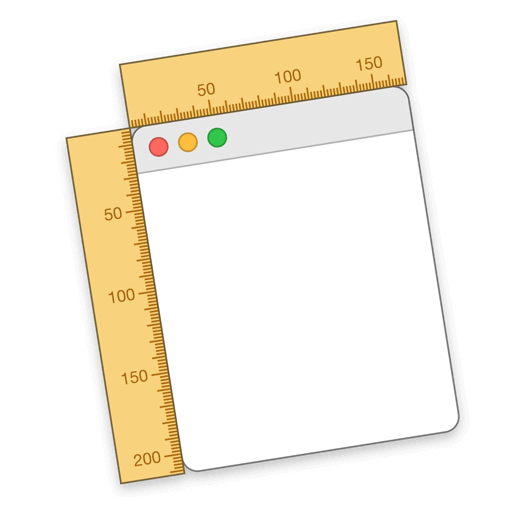
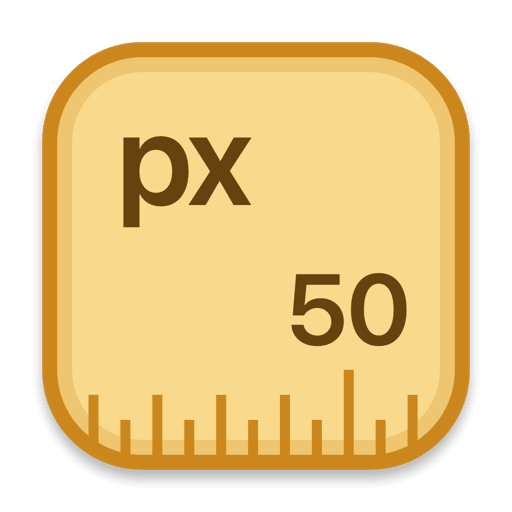
Update Free Ruler page copy and styling
Revise the Free Ruler landing page: remove the "2.0" suffix, clarify macOS requirement (Sonoma or later), expand and reword the features list (add keyboard shortcuts, show/hide/reopen, drag-to-resize, multiple languages), simplify feedback/contributing links, and note that GitHub downloads are signed/notarized. Adjust UI styling (larger border-radius and stronger box-shadow) and update the page screenshot (freeruler.png).

diff --git a/src/routes/freeruler/+page.svelte b/src/routes/freeruler/+page.svelte
@@ -13,18 +13,21 @@
 
   <article>
     <header>
-      <h1>Free Ruler 2.0</h1>
+      <h1>Free Ruler</h1>
       <p>A ruler application for macOS</p>
     </header>
     <h3>Features</h3>
     <ul>
       <li>Horizontal and vertical rulers.</li>
-      <li>Measure in pixels, inches, or millimeters.</li>
+      <li>Measure in pixels, millimeters, or inches (press U to cycle).</li>
       <li>Float rulers above other applications (press F to toggle).</li>
       <li>Move windows independently or as a group (press G to toggle).</li>
+      <li>Show, hide, and reopen rulers from the menu or keyboard.</li>
+      <li>Drag the end of each ruler to resize.</li>
       <li>Show or hide the shadow behind rulers (press S to toggle).</li>
       <li>Align rulers at mouse location (press O for origin).</li>
       <li>Reset ruler locations with Command-R.</li>
+      <li>Available in multiple languages.</li>
     </ul>
 
     <h3>Download</h3>
@@ -38,7 +41,7 @@
     </Row>
 
     <p>
-      Compatible with macOS Sonoma, Ventura, Catalina, Mojave, and maybe a few older releases. <a
+      Free Ruler requires macOS Sonoma or later. <a
         href="https://github.com/pascalpp/FreeRuler/issues?q=is%3Aissue+is%3Aopen+sort%3Aupdated-desc"
       >
         Your feedback is welcome!
@@ -46,23 +49,16 @@
     </p>
 
     <p>
-      For older versions, see the <a href="https://github.com/pascalpp/FreeRuler/releases">releases page</a>.
+      Direct downloads from GitHub are signed, notarized, and can check for updates automatically. For older builds, see
+      the <a href="https://github.com/pascalpp/FreeRuler/releases">releases page</a>.
     </p>
 
-    <h3>Todo</h3>
+    <h3>Feedback</h3>
     <p>
-      See <a href="https://github.com/pascalpp/FreeRuler/issues?q=is%3Aissue+is%3Aopen+sort%3Aupdated-desc">
-        the list of open issues
-      </a>. For feature requests,
-      <a href="https://github.com/pascalpp/FreeRuler/issues/new">open a new issue</a>.
-    </p>
-    <h3>Contributing</h3>
-    <p>
-      If you have experience with Mac app development in Swift, please look at the <a
-        href="https://github.com/pascalpp/FreeRuler/issues?q=is%3Aissue+is%3Aopen+label%3A%22help+wanted%22+sort%3Aupdated-desc"
+      Free Ruler is open source. For bugs or feature requests, see the <a
+        href="https://github.com/pascalpp/FreeRuler/issues?q=is%3Aissue+is%3Aopen+sort%3Aupdated-desc">issues list</a
       >
-        help wanted issues
-      </a>.
+      or <a href="https://github.com/pascalpp/FreeRuler/issues/new">open a new issue</a>.
     </p>
     <p>
       Or you can <a href="https://www.paypal.me/pascalpp" rel="nofollow">make a donation</a>.
@@ -124,8 +120,8 @@
     padding-bottom: 40px;
     max-width: 600px;
     background-color: white;
-    border-radius: 4px;
-    box-shadow: 0 0 10px rgba(black, 0.2);
+    border-radius: 36px;
+    box-shadow: 0 5px 20px rgba(0, 0, 0, 0.25);
 
     display: flex;
     flex-direction: column;